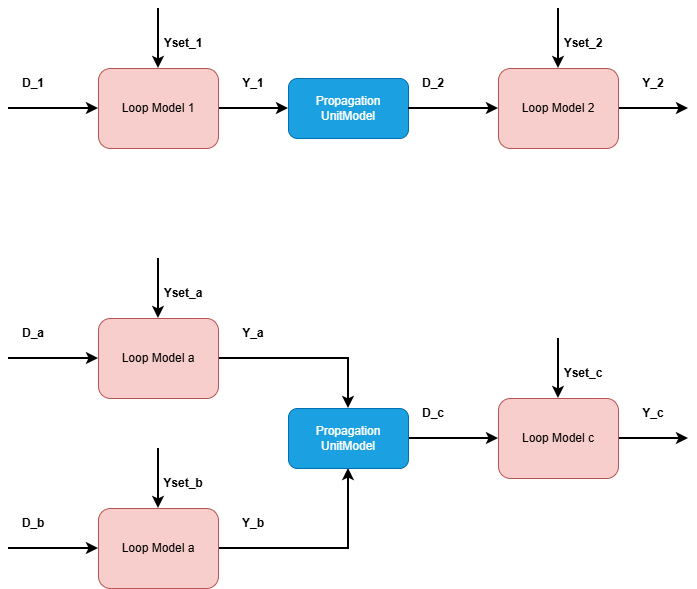
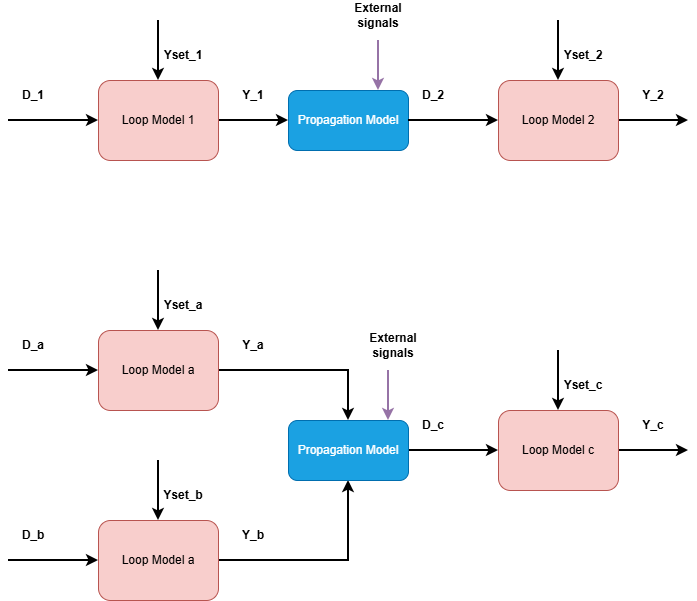
- added section on disturbance-driven modeling

diff --git a/docs/articles/process_modeling.md b/docs/articles/process_modeling.md
@@ -1,10 +1,10 @@
-# Plant modeling
+# Disturbance-driven plant modeling
 
 To apply the identification and simulation methods of this library to real-world processes, which 
 may consist of equipment such as valves, compressors, heat-exchangers, may require 
 some context-specific adaptations. 
 
-## General considerations 
+## Plant modeling: General considerations 
 
 To apply the methods of this library to modeling larger plant, there are several techniques that need to be employed:
 - *regressor / input transformations* :capturing non-linearities by transforming inputs, for instance by raising the input to a power
@@ -15,8 +15,6 @@ What design choices are made during modeling may depend on the intended purpose 
 Use-cases can be broadly separated into
 - *"condition monitoring"* : the model is only intended to run concurrently with a given dataset
 - *"what-if" simulations*: the model is intended to be used to evaluate different hypothetical scenarios that don't match the given data(i.e. some variables are *free variables*).
-
-
 
 
 ### Boundary conditions
@@ -53,7 +51,7 @@ in longer computational times.
 
 ## Disturbance-driven modeling
 
-### Single-loop disturbance-driven modeling
+### Single-loop disturbance-driven modeling (DDM)
 
 A PID-loop consisting of a unit model and a PID will be referred to as a *"loop model"*. These models have a very interesting property:
 
@@ -73,16 +71,37 @@ A "loop model" as defined above is capable of "what-if" simulations given the ab
 is first determined by the given input signals ``Yset``, ``Y`` and ``U`` and the assumed process model. Then this disturbance signal is can	be used to simulate what-if scenarios
 where either the setpoint takes a different trajectory, or a different version of the PID model is used (such as different tuning.)
 
+> [!NOTE]
+>**Setpoint-driven modeling**
+> Traditionally, loops are determined by varying the *setpoint* and the disturbance is considered negligible, sometimes experiments are performed on the process at rest.
+> This is a valid approach, but the drawback is that such a tuning campaign is not always possible, it disturbs normal operation and thus comes with a significant costs, and
+> it also has a certain risk of causing a triggering the safety systems automatic shutdown.
 
-### Multi-loop disturbance-driven modeling
+
+### Multi-loop disturbance-driven modeling 
 
 In process systems, equipment is connected with downstream equipment, and especially in oil and gas, the main disturbance is the actual feed at the very upstream boundary.
-A further challenge is that this boundary is not directly measured. 
+The feed disturbance propagates through multiple loops, that collaborate to even out the disturbance, using buffer capacities of different capacity and also the travel time between equipment.  
+There is generally no measurement at the feed inlet, so the initial disturbance is unmeasured, but is observed indirectly by its consequences through the processing train. 
 
-In these kind of larger plants, it is sometimes observed that the disturbances propagate, and that the disturbance acting on the downstream loops is reliably correlated with signals on
-on one or more upstream loops. 
+Based on the problem description, it would be desirable if the single-loop disturbance driven modeling approach above could be extended to analyze multiple loops together.
+
+In general, simulating the propagation of disturbances across multiple loops would require "*propagation models*" that link process values of upstream loops with the disturbances of downstream loops,
+as shown below
+
 
 ![Multi-loop models](./images/loopmodel_multi.png)
+
+
+> [!NOTE]
+>**Propagation models**
+> - the choice of propagation model inputs is a design choice that *should* be informed by the topology of the process plant
+> - propagation models *should* ideally link to the measured process values of upstream loops
+> - propagation models *could* also include external non-loop signals as inputs(if necessary), but remember that for what-if simulations these inputs will need to be frozen, or they must themselves be modelled. 
+> - propagation models can link to *one* or *multiple* upstream loops 
+> - propagation models could be modeled using single or multiple ``UnitModel`` models, in which case parameters can be determined used ``UnitIdentifier``.
+> - propagation models will likely need to include transport delay. 
+
 
 
 